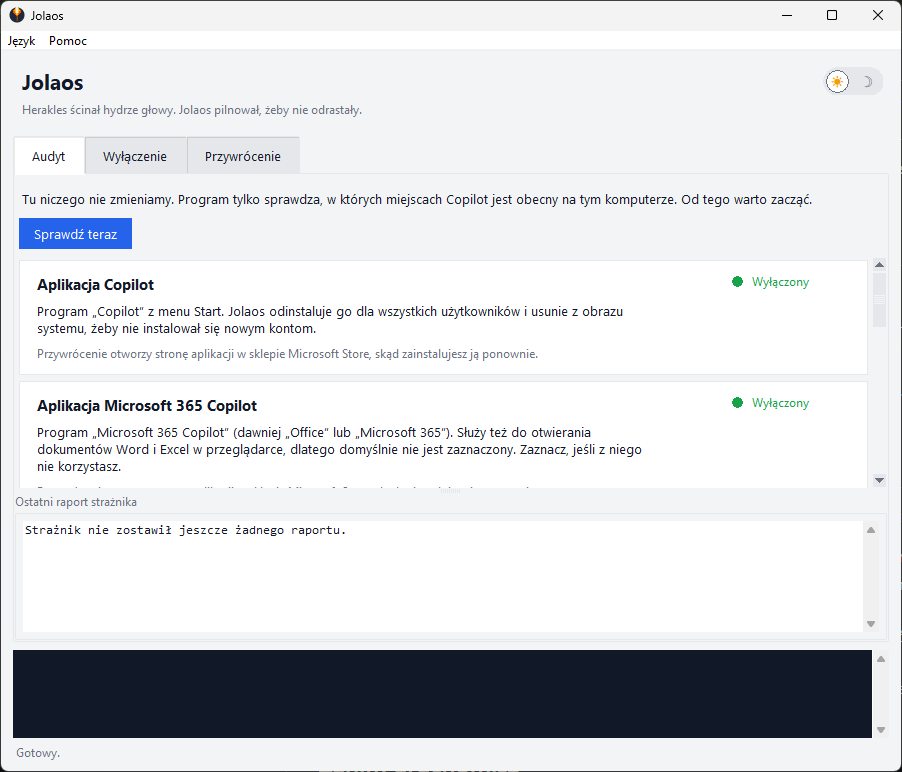
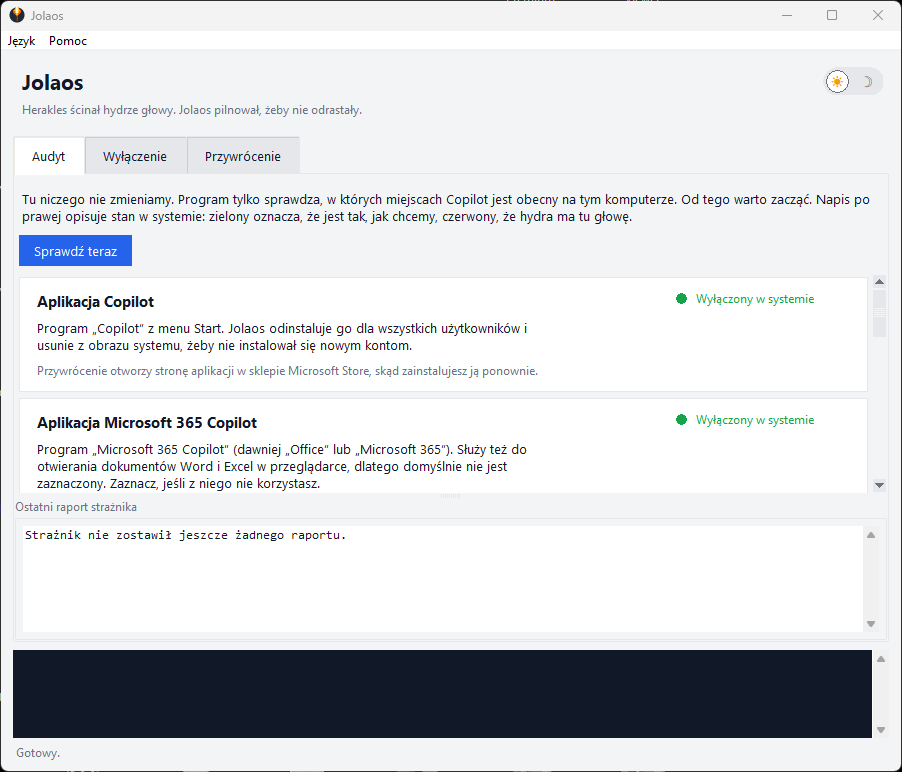
Elevate through UAC only and describe system state in status labels
- no in-app question about administrator rights: the program relaunches
  itself through the system UAC prompt before touching any file, and a
  declined prompt ends it quietly
- unhandled errors in the window go to jolaos.log instead of a dialog
- status labels say what is true on this system (present, disabled,
  guard running) so they are not confused with the switches; tab intros
  explain that green means the desired state
- README screenshots refreshed, version 0.1.2

diff --git a/jolaos/i18n.py b/jolaos/i18n.py
@@ -30,15 +30,19 @@ _PL = {
     "tab.restore": "Przywrócenie",
     "audit.intro": (
         "Tu niczego nie zmieniamy. Program tylko sprawdza, w których miejscach Copilot "
-        "jest obecny na tym komputerze. Od tego warto zacząć."
+        "jest obecny na tym komputerze. Od tego warto zacząć. Napis po prawej opisuje "
+        "stan w systemie: zielony oznacza, że jest tak, jak chcemy, czerwony, że hydra "
+        "ma tu głowę."
     ),
     "audit.run": "Sprawdź teraz",
     "audit.running": "Sprawdzanie…",
     "audit.guard_report": "Ostatni raport strażnika",
     "audit.no_report": "Strażnik nie zostawił jeszcze żadnego raportu.",
     "disable.intro": (
-        "Zaznacz, które głowy hydry mają zostać ścięte. Każda zmiana jest zapisywana "
-        "w dzienniku, więc da się ją cofnąć w zakładce Przywrócenie."
+        "Przełącznik po lewej mówi, co ma zostać ścięte po kliknięciu „Zastosuj”. Napis "
+        "po prawej pokazuje, jak jest teraz w systemie: zielony oznacza stan pożądany, "
+        "czerwony, że głowa wciąż jest. Każda zmiana trafia do dziennika i da się ją "
+        "cofnąć w zakładce Przywrócenie."
     ),
     "disable.run": "Zastosuj zaznaczone",
     "disable.running": "Wprowadzanie zmian…",
@@ -60,13 +64,13 @@ _PL = {
     "restore.nothing": "Nie zaznaczono żadnej opcji.",
     "restore.applied_on": "Zmieniono: {when}",
     # Statusy
-    "status.unknown": "Nie sprawdzono",
-    "status.present": "Obecny",
-    "status.absent": "Wyłączony",
-    "status.partial": "Częściowo",
-    "status.error": "Błąd sprawdzania",
-    "status.guard_missing": "Nie założony",
-    "status.guard_active": "Czuwa",
+    "status.unknown": "Jeszcze nie sprawdzono",
+    "status.present": "Obecny w systemie",
+    "status.absent": "Wyłączony w systemie",
+    "status.partial": "Częściowo wyłączony",
+    "status.error": "Nie udało się sprawdzić",
+    "status.guard_missing": "Strażnik nie działa",
+    "status.guard_active": "Strażnik czuwa",
     "status.ready": "Gotowy.",
     "status.need_restart": "Niektóre zmiany zadziałają dopiero po ponownym uruchomieniu komputera.",
     "status.need_relogin": "Niektóre zmiany zobaczysz po ponownym zalogowaniu lub restarcie Eksploratora.",
@@ -74,12 +78,6 @@ _PL = {
     "status.restart_explorer": "Uruchom ponownie Eksplorator Windows",
     "status.explorer_restarted": "Eksplorator uruchomiony ponownie.",
     # Komunikaty
-    "msg.admin_title": "Potrzebne uprawnienia administratora",
-    "msg.admin": (
-        "Jolaos zmienia ustawienia systemowe, więc musi działać jako administrator. "
-        "Uruchomić ponownie z podniesionymi uprawnieniami?"
-    ),
-    "msg.admin_failed": "Nie udało się uruchomić programu jako administrator.",
     "msg.busy": "Poczekaj, aż bieżąca operacja się zakończy.",
     "log.start_audit": "Rozpoczynam audyt.",
     "log.start_apply": "Rozpoczynam wprowadzanie zmian.",
@@ -137,15 +135,19 @@ _EN = {
     "tab.restore": "Restore",
     "audit.intro": (
         "Nothing is changed here. The program only checks where Copilot is present on "
-        "this computer. This is the place to start."
+        "this computer. This is the place to start. The label on the right describes the "
+        "current state of the system: green means it is the way we want it, red means "
+        "the Hydra still has a head here."
     ),
     "audit.run": "Check now",
     "audit.running": "Checking…",
     "audit.guard_report": "Latest guard report",
     "audit.no_report": "The guard has not left a report yet.",
     "disable.intro": (
-        "Select which heads of the Hydra should be cut off. Every change is written to a "
-        "journal, so it can be undone on the Restore tab."
+        "The switch on the left says what will be cut off when you click Apply. The label "
+        "on the right shows the current state of the system: green is the desired state, "
+        "red means the head is still there. Every change is written to a journal and can "
+        "be undone on the Restore tab."
     ),
     "disable.run": "Apply selected",
     "disable.running": "Applying changes…",
@@ -166,25 +168,19 @@ _EN = {
     "restore.empty": "The journal is empty. Jolaos has not changed anything on this computer yet.",
     "restore.nothing": "No option selected.",
     "restore.applied_on": "Changed: {when}",
-    "status.unknown": "Not checked",
-    "status.present": "Present",
-    "status.absent": "Disabled",
-    "status.partial": "Partially",
-    "status.error": "Check failed",
-    "status.guard_missing": "Not set up",
-    "status.guard_active": "Watching",
+    "status.unknown": "Not checked yet",
+    "status.present": "Present on this system",
+    "status.absent": "Disabled on this system",
+    "status.partial": "Partially disabled",
+    "status.error": "Could not check",
+    "status.guard_missing": "Guard not running",
+    "status.guard_active": "Guard is watching",
     "status.ready": "Ready.",
     "status.need_restart": "Some changes take effect after a restart of the computer.",
     "status.need_relogin": "Some changes appear after signing in again or restarting Explorer.",
     "status.done": "Finished.",
     "status.restart_explorer": "Restart Windows Explorer",
     "status.explorer_restarted": "Explorer restarted.",
-    "msg.admin_title": "Administrator rights required",
-    "msg.admin": (
-        "Jolaos changes system settings, so it has to run as administrator. "
-        "Restart with elevated rights?"
-    ),
-    "msg.admin_failed": "Could not restart the program as administrator.",
     "msg.busy": "Please wait for the current operation to finish.",
     "log.start_audit": "Starting audit.",
     "log.start_apply": "Starting to apply changes.",

diff --git a/jolaos/gui.py b/jolaos/gui.py
@@ -239,7 +239,7 @@ class HeadRow(tk.Frame):
         self.badge.grid(row=0, column=2, rowspan=3, sticky="ne", padx=(14, 0))
         self.dot = tk.Canvas(self.badge, width=12, height=12, highlightthickness=0, bg=C["card"])
         self.dot.pack(side="left", padx=(0, 6), pady=3)
-        self.status = tk.Label(self.badge, font=SMALL_FONT, bg=C["card"], width=14, anchor="w")
+        self.status = tk.Label(self.badge, font=SMALL_FONT, bg=C["card"], width=22, anchor="w")
         self.status.pack(side="left")
 
         self.detail = tk.Label(self, text="", font=MONO_FONT, fg=C["muted"], bg=C["card"], justify="left", anchor="w")
@@ -247,7 +247,7 @@ class HeadRow(tk.Frame):
         self.bind("<Configure>", self._on_resize)
 
     def _on_resize(self, event) -> None:
-        width = max(event.width - 270, 200)
+        width = max(event.width - 320, 200)
         self.desc.configure(wraplength=width)
         self.notes.configure(wraplength=width)
         self.detail.configure(wraplength=width)
@@ -281,7 +281,7 @@ class SettingRow(tk.Frame):
                              justify="left", anchor="w", wraplength=520)
         self.desc.grid(row=1, column=1, sticky="we", pady=(2, 0))
         self.var.trace_add("write", lambda *_: command(self.var.get()))
-        self.bind("<Configure>", lambda e: self.desc.configure(wraplength=max(e.width - 270, 200)))
+        self.bind("<Configure>", lambda e: self.desc.configure(wraplength=max(e.width - 320, 200)))
 
 
 # ---------------------------------------------------------------------------
@@ -672,14 +672,5 @@ class App:
 
 
 def run_gui(journal: Journal) -> int:
-    if not winapi.is_admin():
-        root = tk.Tk()
-        root.withdraw()
-        if messagebox.askyesno(t("msg.admin_title"), t("msg.admin")):
-            if winapi.relaunch_as_admin():
-                root.destroy()
-                return 0
-            messagebox.showerror(t("msg.admin_title"), t("msg.admin_failed"))
-        root.destroy()
     App(journal).run()
     return 0

diff --git a/jolaos/__main__.py b/jolaos/__main__.py
@@ -10,8 +10,8 @@ if __package__ in (None, ""):  # uruchomienie jako skrypt: python jolaos/__main_
     sys.path.insert(0, str(Path(__file__).resolve().parent.parent))
     __package__ = "jolaos"  # noqa: A001
 
-from . import __version__, i18n  # noqa: E402
-from .journal import Journal  # noqa: E402
+from . import __version__, i18n, winapi  # noqa: E402
+from .journal import Journal, append_log  # noqa: E402
 
 
 def _cli_audit() -> int:
@@ -61,6 +61,14 @@ def main(argv: list[str] | None = None) -> int:
         if stream and hasattr(stream, "reconfigure"):
             stream.reconfigure(encoding="utf-8", errors="replace")
 
+    gui_mode = not (args.audit or args.guard or args.remove_guard)
+    if gui_mode and not winapi.is_admin():
+        # Jedyne pytanie o uprawnienia zadaje system (okno UAC). Odmowa kończy program
+        # po cichu. Nic nie dotykamy przed podniesieniem uprawnień, żeby nie było
+        # wcześniejszych komunikatów o błędach.
+        winapi.relaunch_as_admin()
+        return 0
+
     journal = Journal()
     i18n.set_language(args.lang or journal.get_config("language", i18n.DEFAULT_LANGUAGE))
 
@@ -73,7 +81,11 @@ def main(argv: list[str] | None = None) -> int:
 
     from .gui import run_gui
 
-    return run_gui(journal)
+    try:
+        return run_gui(journal)
+    except Exception as exc:  # noqa: BLE001 - zamiast okna błędu z bootloadera: wpis w logu
+        append_log(f"gui crashed: {exc!r}")
+        return 1
 
 
 if __name__ == "__main__":

diff --git a/jolaos/__init__.py b/jolaos/__init__.py
@@ -1,4 +1,4 @@
 """Jolaos wyłącza Copilota w Windows 11 Home i pilnuje, żeby nie wrócił."""
 
-__version__ = "0.1.1"
+__version__ = "0.1.2"
 APP_NAME = "Jolaos"
